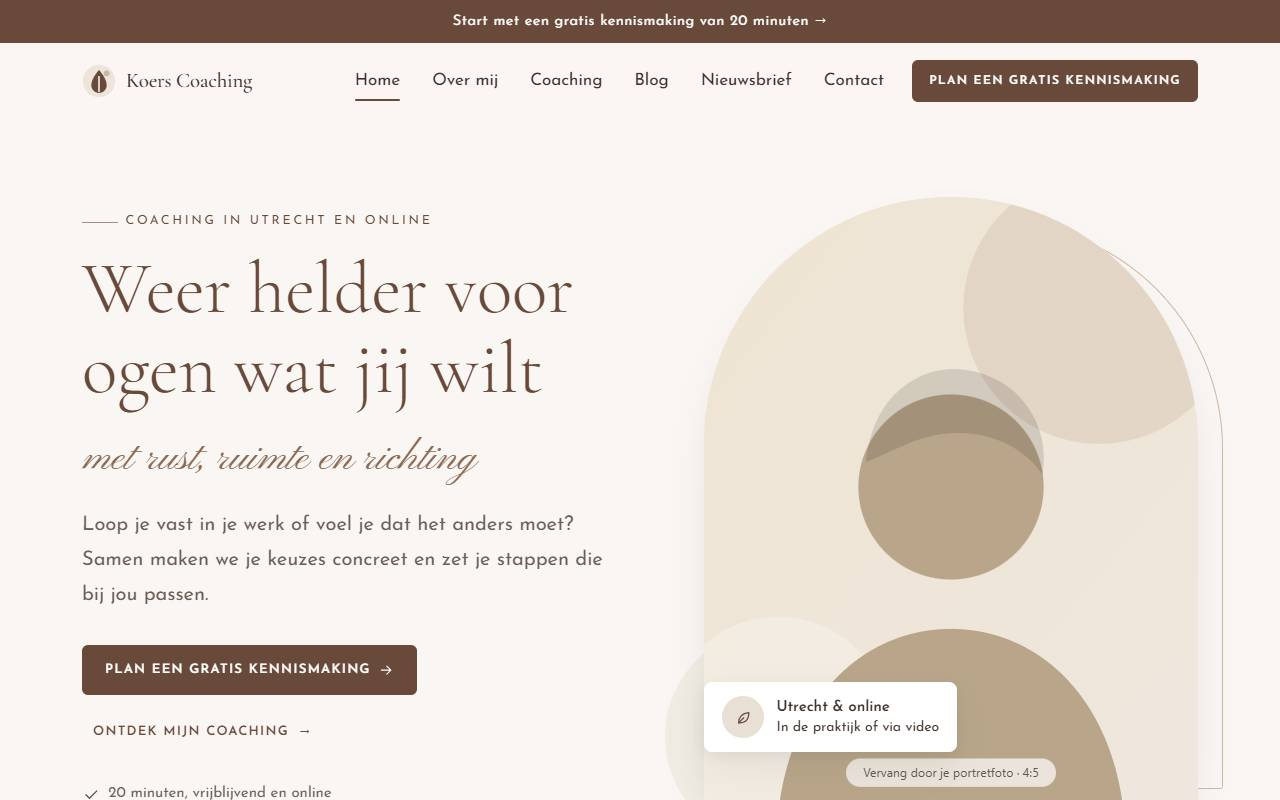
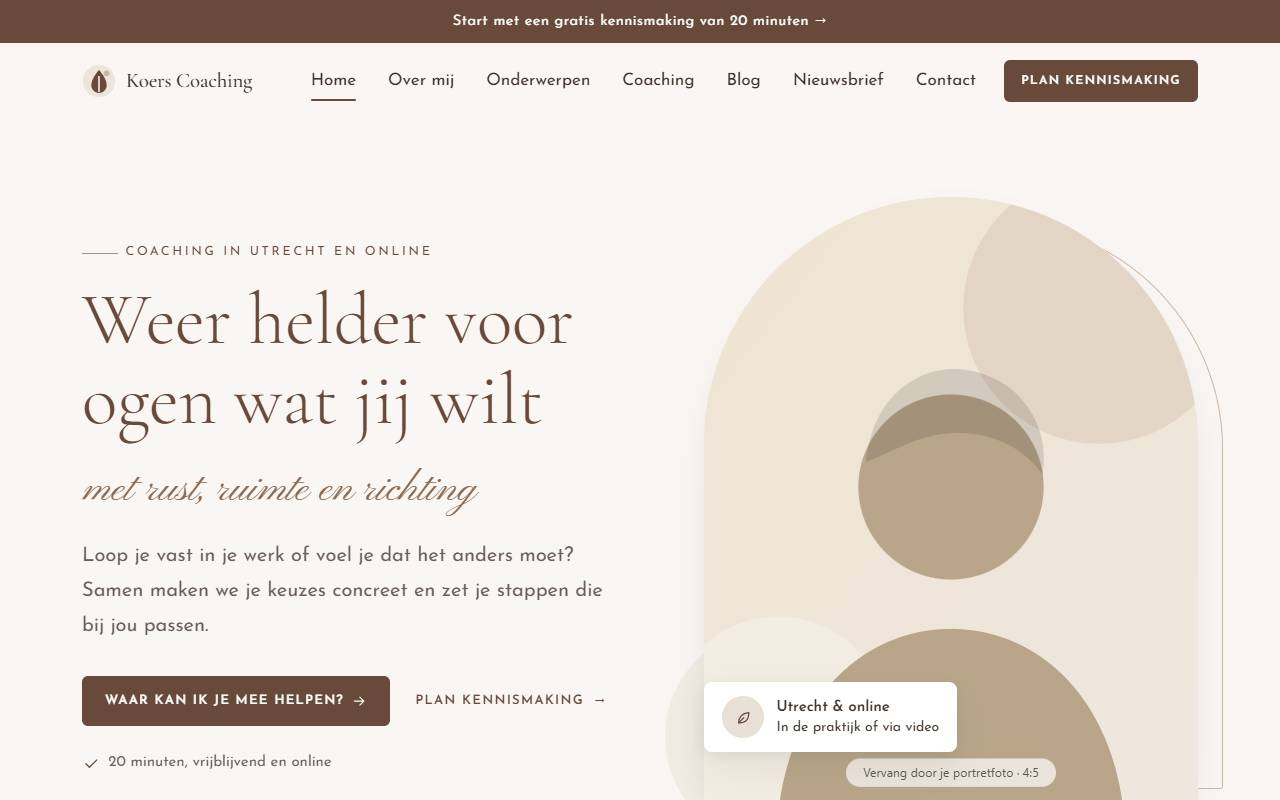
Coachingswebsite: homepage rond onderwerpen van de bezoeker

diff --git a/assets/js/content.js b/assets/js/content.js
@@ -1402,6 +1402,7 @@ window.SITE_CONTENT = {
       },
       "highlights": {
         "nl": [
+          "Onderwerpen met eigen pagina",
           "Persoonlijke introductie",
           "Aanbod en trajecten",
           "Online afspraak maken",
@@ -1411,6 +1412,7 @@ window.SITE_CONTENT = {
           "Contactformulier"
         ],
         "en": [
+          "Topics with their own page",
           "Personal introduction",
           "Services and programmes",
           "Online booking",
@@ -1425,8 +1427,8 @@ window.SITE_CONTENT = {
         "en": "Show who you are, and make the first step easy."
       },
       "text": {
-        "nl": "Een warme, rustige website voor coaches met twaalf pagina's: Home, Over mij, een overzicht van je aanbod met drie detailpagina's (losse gesprekken, traject en online coaching), Blog met artikelpagina, Afspraak maken, Contact, Privacy, Voorwaarden en een 404-pagina. Bezoekers kiezen zelf een gesprekstype, datum en tijd, en melden zich aan voor je nieuwsbrief. Warme, ingetogen stijl met elegante koppen en een handgeschreven accent. Gemaakt voor mobiel, tablet en desktop.",
-        "en": "A warm, calm website for coaches with twelve pages: Home, About me, an overview of your services with three detail pages (single sessions, programme and online coaching), Blog with article page, Book an appointment, Contact, Privacy, Terms and a 404 page. Visitors choose a session type, date and time themselves and sign up for your newsletter. A warm, understated style with elegant headings and a handwritten accent. Built for mobile, tablet and desktop."
+        "nl": "Een warme, rustige website voor coaches met vijftien pagina's. De homepage draait om je bezoeker: eerst de onderwerpen waar je bezoekers mee rondlopen (elk met een eigen pagina), dan wat jij voor ze kunt doen, inzichten uit je blog, wie je bent en een uitnodiging om kennis te maken. Verder: Over mij, een overzicht van je aanbod met drie detailpagina's (losse gesprekken, traject en online coaching), Blog met artikelpagina, Afspraak maken, Contact, Privacy, Voorwaarden en een 404-pagina. Bezoekers kiezen zelf een gesprekstype, datum en tijd, en melden zich aan voor je nieuwsbrief. Warme, ingetogen stijl met elegante koppen en een handgeschreven accent. Gemaakt voor mobiel, tablet en desktop.",
+        "en": "A warm, calm website for coaches with fifteen pages. The home page centres on your visitor: first the topics on their mind (each with its own page), then how you can help, insights from your blog, who you are and an invitation to meet. Also: About me, an overview of your services with three detail pages (single sessions, programme and online coaching), Blog with article page, Book an appointment, Contact, Privacy, Terms and a 404 page. Visitors choose a session type, date and time themselves and sign up for your newsletter. A warm, understated style with elegant headings and a handwritten accent. Built for mobile, tablet and desktop."
       },
       "textSub": {
         "nl": "Zelf starten of hulp bij de inrichting? Kies jouw pakket en bekijk de demo van het fictieve Koers Coaching.",
@@ -1462,8 +1464,8 @@ window.SITE_CONTENT = {
               "en": "Tell me about your practice"
             },
             "text": {
-              "nl": "Stuur je praktijkgegevens, contactgegevens en gesprekstypen. Bij Compleet lever je ook je teksten over jezelf, je aanbod en de veelgestelde vragen aan. Afbeeldingen voeg je zelf toe.",
-              "en": "Send your practice details, contact details and session types. For Complete, also supply your text about yourself, your services and the FAQ. You add images yourself."
+              "nl": "Stuur je praktijkgegevens, contactgegevens en gesprekstypen. Bij Compleet lever je ook je teksten over je onderwerpen, jezelf, je aanbod en de veelgestelde vragen aan. Afbeeldingen voeg je zelf toe.",
+              "en": "Send your practice details, contact details and session types. For Complete, also supply your text about your topics, yourself, your services and the FAQ. You add images yourself."
             }
           },
           {
@@ -1565,8 +1567,8 @@ window.SITE_CONTENT = {
       "compare": [
         {
           "label": {
-            "nl": "Templatecode met 12 pagina's (HTML/CSS/JS)",
-            "en": "Template code with 12 pages (HTML/CSS/JS)"
+            "nl": "Templatecode met 15 pagina's (HTML/CSS/JS)",
+            "en": "Template code with 15 pages (HTML/CSS/JS)"
           },
           "values": [
             true,
@@ -1697,8 +1699,8 @@ window.SITE_CONTENT = {
         },
         {
           "label": {
-            "nl": "Jouw aangeleverde teksten geplaatst: over mij, aanbod, vragen en blog",
-            "en": "Your supplied text added: about me, services, FAQ and blog"
+            "nl": "Jouw aangeleverde teksten geplaatst: onderwerpen, over mij, aanbod, vragen en blog",
+            "en": "Your supplied text added: topics, about me, services, FAQ and blog"
           },
           "values": [
             false,

diff --git a/index.html b/index.html
@@ -31,6 +31,6 @@
   </div>
 
   <script src="assets/js/content.js?v=20261026-bedrijf1"></script>
-  <script src="assets/js/site.js?v=20261027-coaching3"></script>
+  <script src="assets/js/site.js?v=20261027-coaching4"></script>
 </body>
 </html>

diff --git a/pakket.html b/pakket.html
@@ -26,6 +26,6 @@
   </div>
 
   <script src="assets/js/content.js?v=20261026-bedrijf1"></script>
-  <script src="assets/js/site.js?v=20261027-coaching3"></script>
+  <script src="assets/js/site.js?v=20261027-coaching4"></script>
 </body>
 </html>
